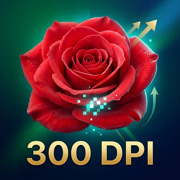
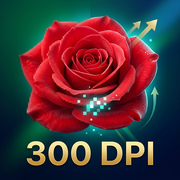
Add files via upload

diff --git a/index.html b/index.html
@@ -7,7 +7,8 @@
 <meta name="apple-mobile-web-app-capable" content="yes">
 <meta name="apple-mobile-web-app-status-bar-style" content="default">
 <meta name="apple-mobile-web-app-title" content="300 DPI">
-<link rel="apple-touch-icon" href="apple-touch-icon.png">
+<link rel="apple-touch-icon" href="300dpi-upscaler-icon.png">
+<link rel="icon" type="image/png" href="300dpi-upscaler-icon.png">
 <title>300 DPI Upscaler</title>
 <link rel="preconnect" href="https://fonts.googleapis.com">
 <link rel="preconnect" href="https://fonts.gstatic.com" crossorigin>
